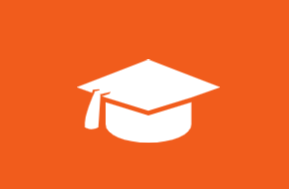
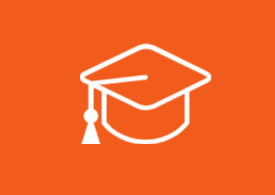
imgs

Changed region(s): [[0.2618, 0.2116, 0.7855, 0.7672]]

diff --git a/src/historico.html b/src/historico.html
@@ -28,7 +28,7 @@
 <div class="container">
     <div class="row">
         <div class="col-8">
-            <H2 class="title ">Área do Universitário > Currículo</H2> 
+            <H2 class="title ">Área do Universitário > Histórico Acadêmico</H2> 
         </div>
 
         <div class="col-4 text-right inline">
@@ -72,18 +72,18 @@
                 <div class="row">
                     <div class="col-6">
                         <p class=" text-left text-curri" >Projetos realizados</p>
-                        <a href="#"><img class="img-cur" src="../img/proj.jpg"></a>
+                        <a href="#"><img class="img-cur" src="../img/proj.png"></a>
                     </div>
                     
                     <div class="col-6">
                         <p class=" text-left text-curri" >Livros lidos</p>
-                        <a href="#"><img class="img-cur" src="../img/book.jpg"></a>
+                        <a href="#"><img class="img-cur" src="../img/book.png"></a>
                     </div>
                     <br>
                     <br>
                     <div class="col-6">
                         <p class=" text-left text-curri" >Filmes vistos</p>
-                        <a href="#"><img class="img-cur" src="../img/movie.jpg"></a></div>
+                        <a href="#"><img class="img-cur" src="../img/movie.png"></a></div>
                     
                       <!--<div class="col-6">
                                     <p class=" text-left text-curri" >Conquistas</p>

diff --git a/src/curriculo.html b/src/curriculo.html
@@ -98,17 +98,17 @@
             <div class="row">
                 <div class="col-6">
                     <p class=" text-left text-curri" >Conquistas</p>
-                    <a href="#"><img class="img-cur" src="../img/troveu.jpg"></a>
+                    <a href="#"><img class="img-cur" src="../img/trof.png"></a>
                 </div>
                 
                 <div class="col-6">
                     <p class=" text-left text-curri" >Portfólio</p>
-                    <a href="#"><img class="img-cur" src="../img/port.jpg"></a>
+                    <a href="#"><img class="img-cur" src="../img/port.png"></a>
                 </div>
                 <br>
                 <div class="col-6">
                     <p class=" text-left text-curri" >Reconhecimentos</p>
-                    <a href="#"><img class="img-cur" src="../img/medal.jpg"></a></div>
+                    <a href="#"><img class="img-cur" src="../img/medal.png"></a></div>
                 
                   <!--<div class="col-6">
                                 <p class=" text-left text-curri" >Conquistas</p>

diff --git a/src/areaempresa.html b/src/areaempresa.html
@@ -56,7 +56,7 @@
                         </h3>
                         <div class="column">
                             <div>
-                              <figure><img src="../img/" class="img-geral text-center" /></figure>
+                              <figure><img src="../img/oportu.png" class="img-geral text-center" /></figure>
                             </div>
                         <div class="text-center">
                             
